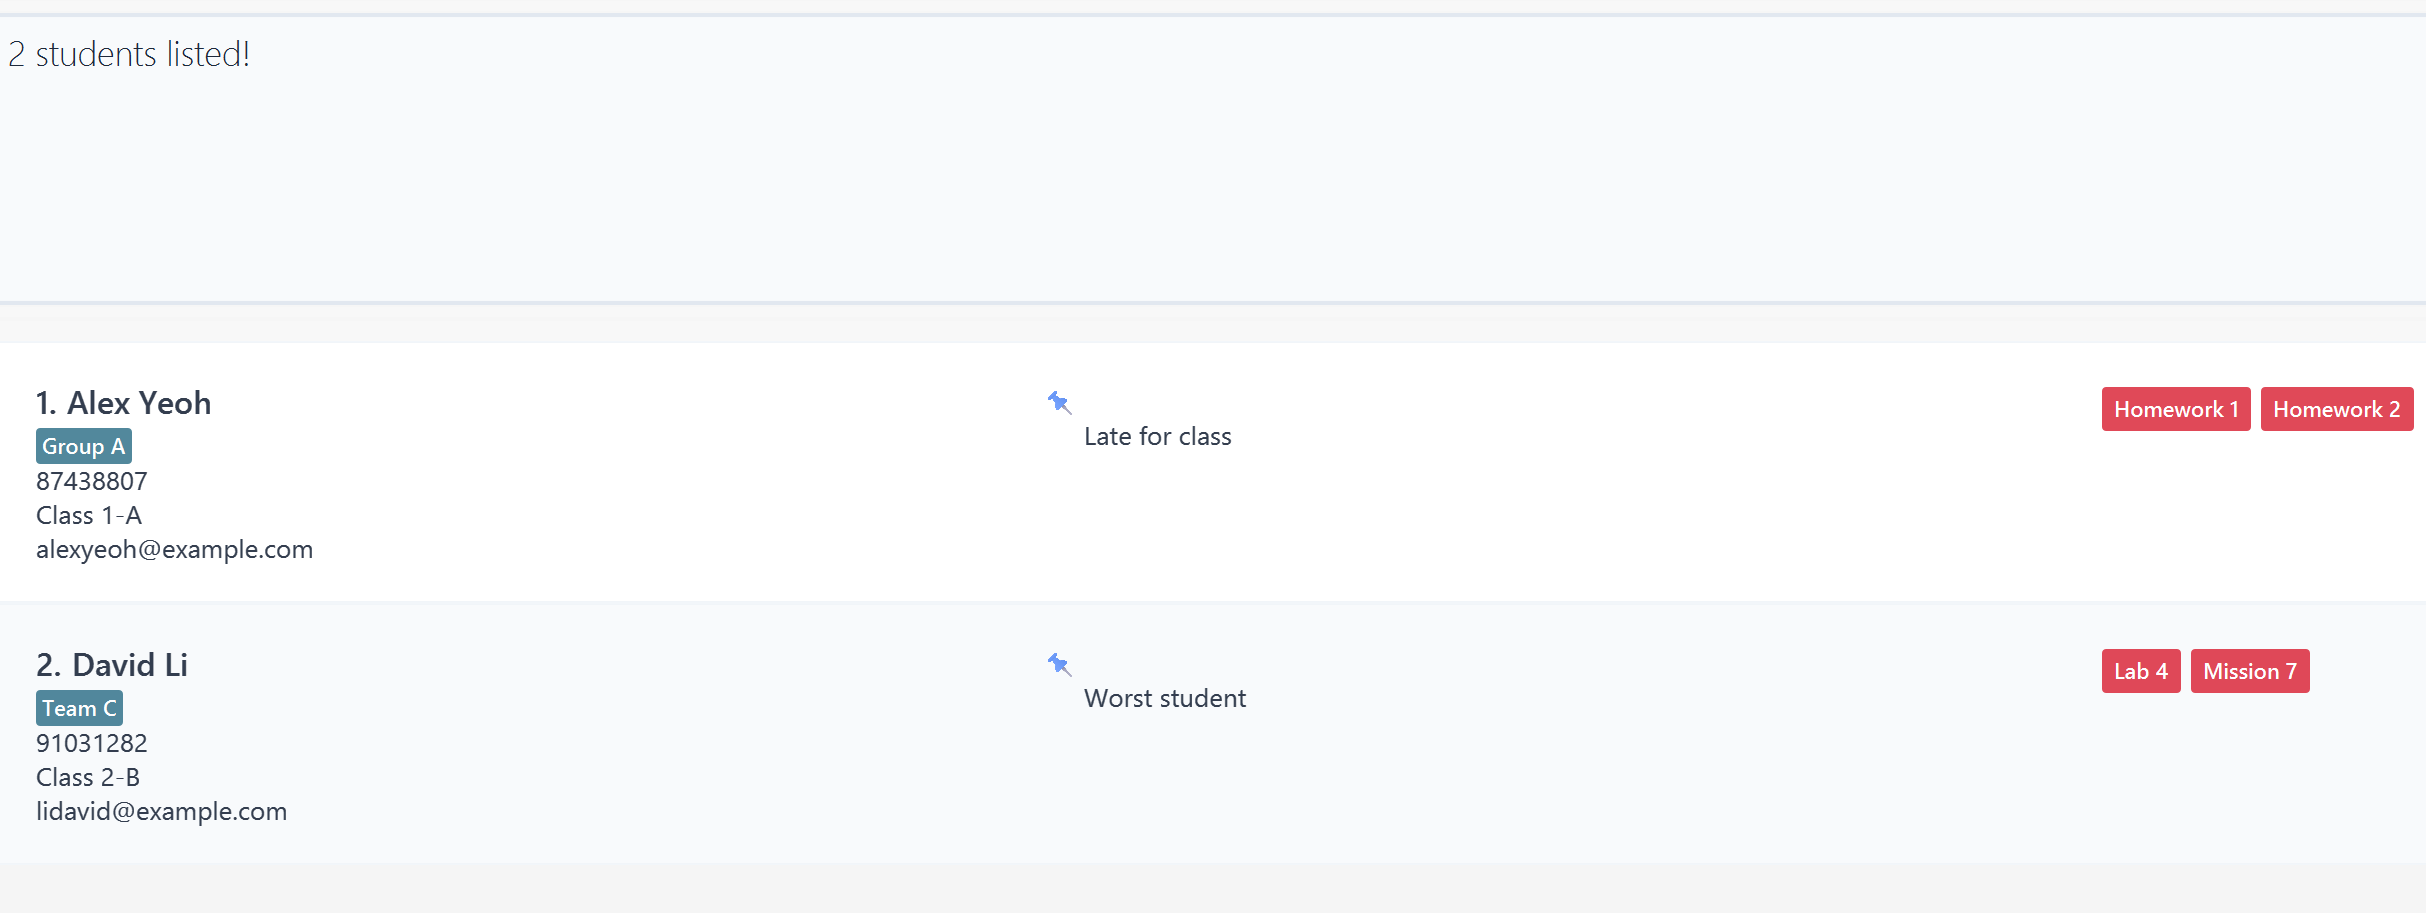
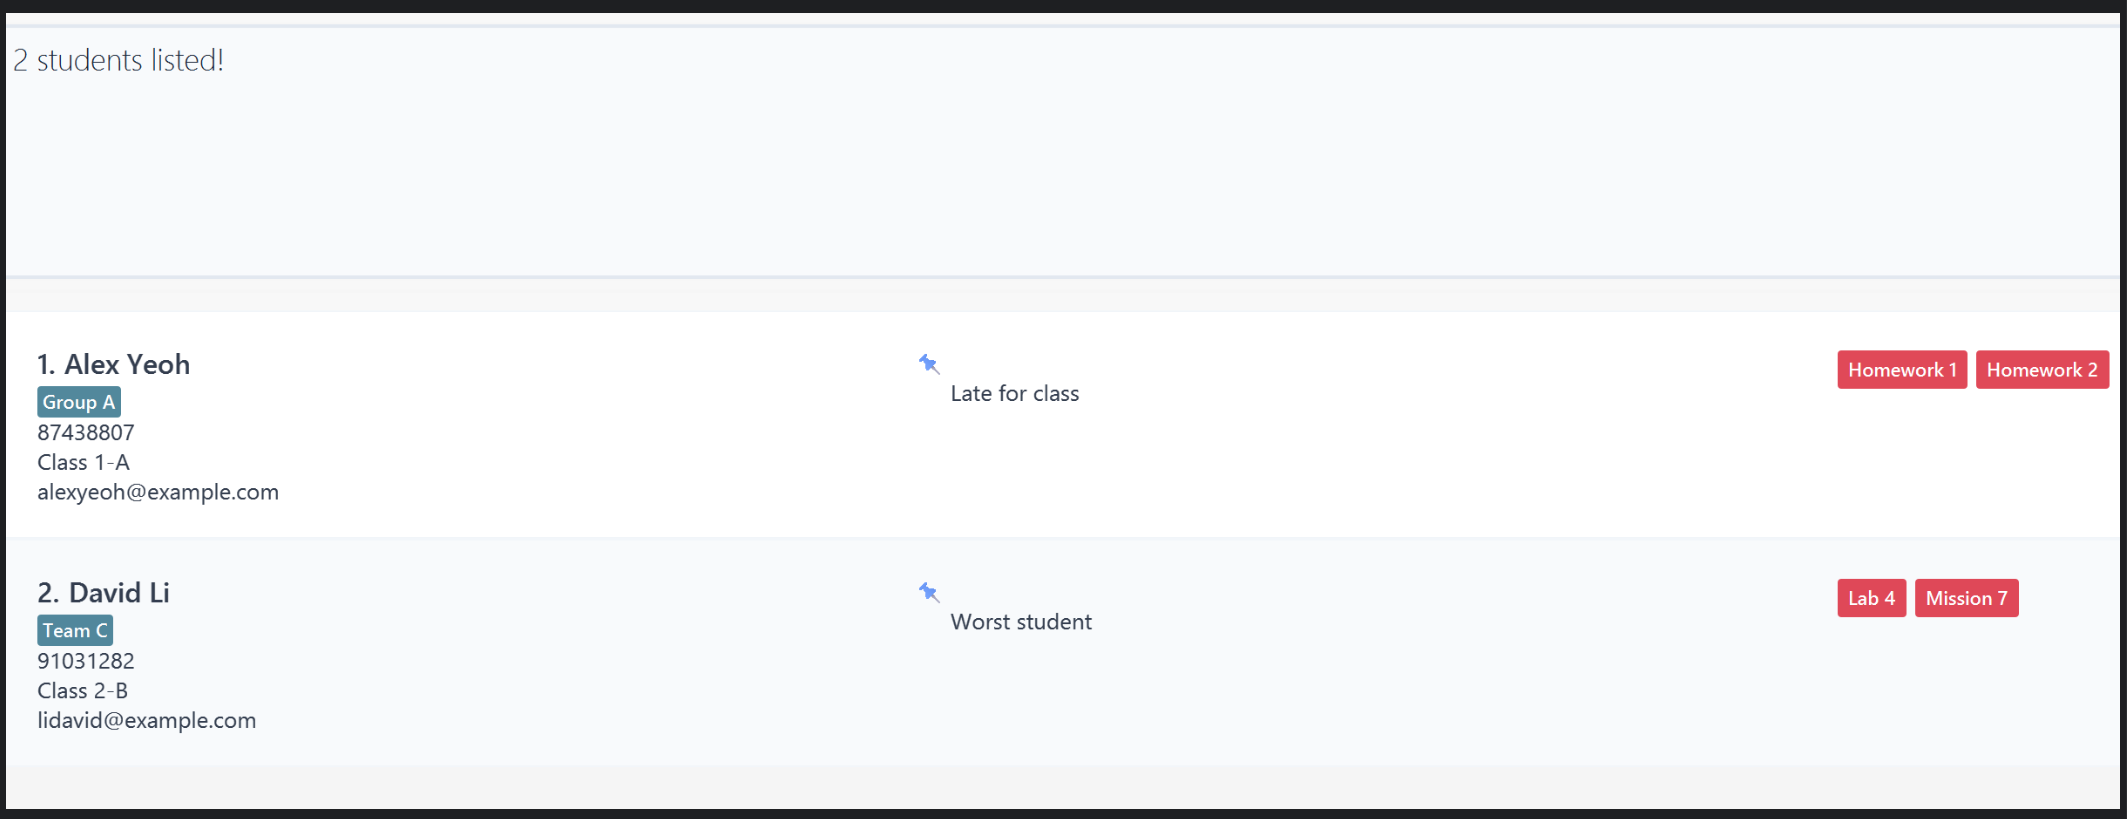
Add border to images

diff --git a/docs/UserGuide.md b/docs/UserGuide.md
@@ -67,9 +67,9 @@ EduBook is a **desktop app for managing student details, optimized for use via a
 * If you are using a PDF version of this document, be careful when copying and pasting commands that span multiple lines as space characters surrounding line-breaks may be omitted when copied over to the application.
 </div>
 
-#### Formatting rules for parameters:
+#### Formatting rules for inputs:
 
-| Field      | Max Length | Format / Constraints                                                                                                                                                                                                                            |
+| Inputs     | Max Length | Format / Constraints                                                                                                                                                                                                                            |
 |------------|------------|-------------------------------------------------------------------------------------------------------------------------------------------------------------------------------------------------------------------------------------------------|
 | Name       | 100        | Alphanumeric letters and spaces only; must not be blank                                                                                                                                                                                         |
 | Email      | 100        | Format: `local-part@domain`<br>- Local-part: alphanumeric + `+`, `_`, `.`, `-`; cannot start or end with a special character<br>- Domain: must include at least one `.`, with labels separated by `.`, start/end with alphanumeric, hyphens allowed internally, last label ≥2 chars |
@@ -80,7 +80,7 @@ EduBook is a **desktop app for managing student details, optimized for use via a
 | Label      | 100        | Alphanumeric letters and spaces only; must not be blank                                                                                                                                                                                                                           |
 
 <div markdown="span" class="alert alert-primary">:bulb: **Note:**
-For identification purposes, all names (student or assignment) and classes are case-sensitive.
+For identification purposes, all inputs are case-insensitive unless stated otherwise.
 </div>
 
 ### Viewing help : `help`
@@ -98,7 +98,7 @@ Adds a student to EduBook.
 
 Format: `add n/NAME p/PHONE e/EMAIL c/CLASS [t/TAG]…`
 
-* All inputs must adhere to the [Formatting rules for parameters](#formatting-rules-for-parameters).
+* All inputs must adhere to the [Formatting rules for inputs](#formatting-rules-for-inputs).
 
 <div markdown="span" class="alert alert-primary">:bulb: **Note:**
 A student can have any number of tags (including 0)
@@ -123,6 +123,7 @@ Edits an existing student in EduBook.
 
 Format: `edit INDEX [n/NAME] [p/PHONE_NUMBER] [e/EMAIL] [c/CLASS] [l/LABEL] [t/TAG]… [a/ASSIGNMENT]…`
 
+* All edited inputs must adhere to the [Formatting rules for inputs](#formatting-rules-for-inputs).
 * Edits the student at the specified `INDEX`. The index refers to the index number shown in the displayed student list. The index **must be a positive integer** 1, 2, 3, …
 * At least one of the optional fields must be provided.
 * Existing values will be updated to the input values.
@@ -234,6 +235,7 @@ Assigns an assignment to a specific student or to all students in a class, depen
 
 Format: `assign a/ASSIGNMENT {n/NAME | c/CLASS}`
 
+* The format for assignment can be accessed here: [Formatting rules for inputs](#formatting-rules-for-inputs).
 * You must specify **exactly one** of the two parameters — either `n/NAME` or `c/CLASS`.  
   e.g. `assign a/Homework n/Bob` or `assign a/Homework c/Class 1-A`, but not both.
 
@@ -343,6 +345,7 @@ Applies a label to a specific student or to all students in a class, depending o
 
 Format: `label l/LABEL {n/NAME | c/CLASS}`
 
+* The format for label can be accessed here: [Formatting rules for inputs](#formatting-rules-for-inputs).
 * You must specify **exactly one** of the two parameters — either `n/NAME` or `c/CLASS`.  
   e.g. `label l/Top student n/Bob` or `label l/Online Meeting c/Class 1-A`, but not both.
 
@@ -410,7 +413,7 @@ See [Formatting rules for parameters](#formatting-rules-for-parameters) above.
 :exclamation: **Caution:**  
 If your changes to the data file make its format invalid, EduBook will display an error message.  
 
-To retain your saved file, exit immediately without making changes to the blank file. Revert the changes and reload EduBook. Otherwise, a new empty file will be used.  
+To retain your saved file, exit immediately without making changes to the blank file. Revert the changes and reload EduBook. Otherwise, a new empty file will be used. The new file **will be saved** upon using the `exit` command or making changes to the file, **erasing the old file**.
 ![Error Message](images/FileCorruptedExample.png "Error Message for File Corruption")
 
 Furthermore, certain edits can cause the EduBook to behave in unexpected ways (e.g., if a value entered is outside the acceptable range).  
